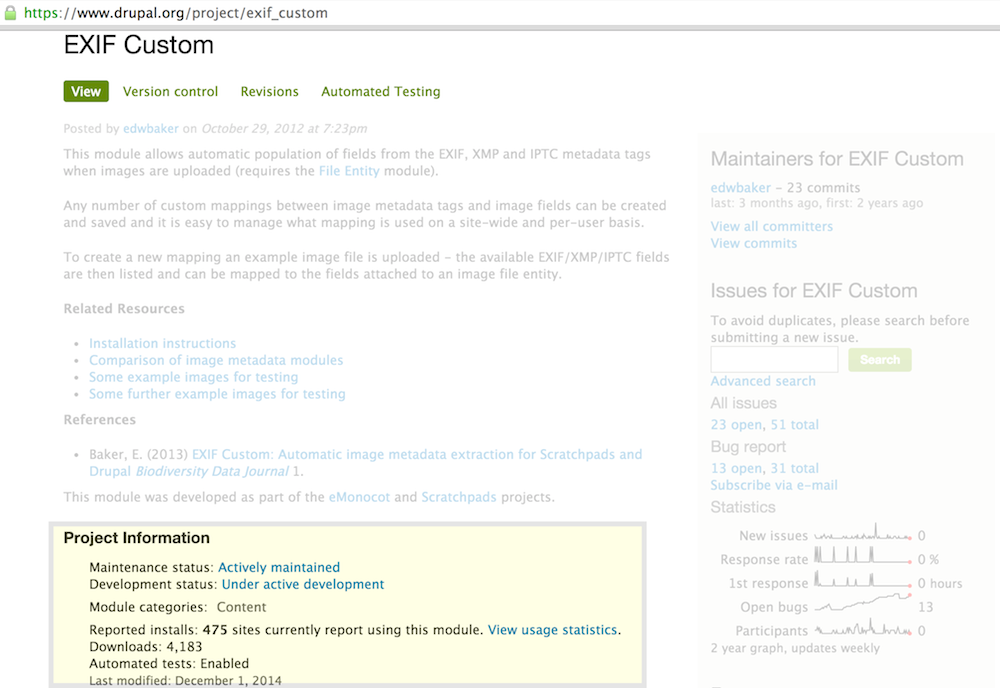
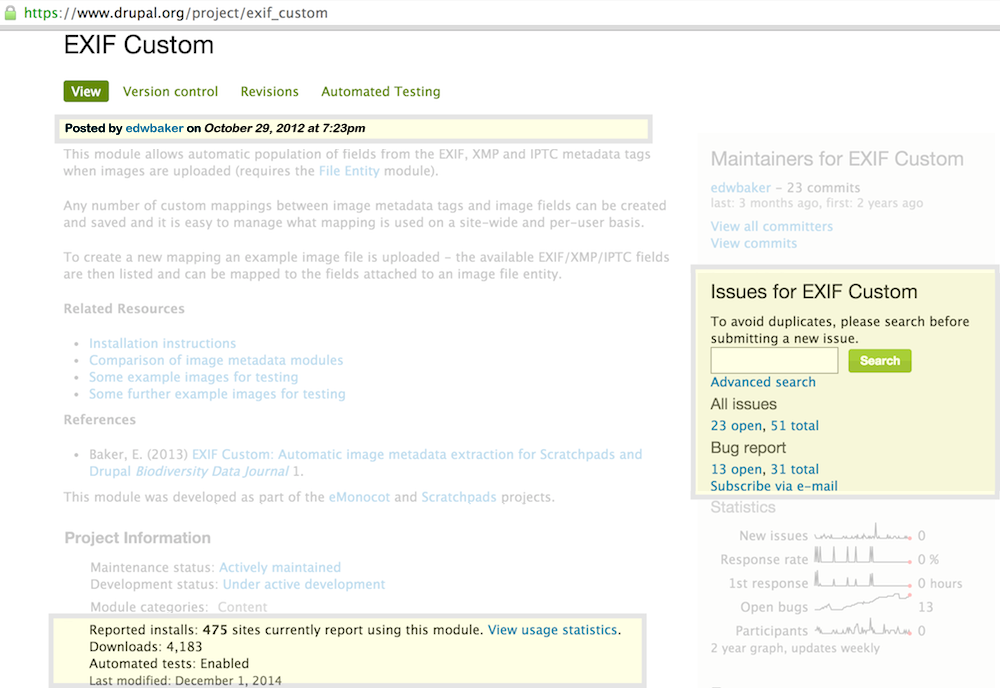
Update real world example

Changed region(s): [[0.682, 0.3663, 1.0, 0.7326], [0.031, 0.7326, 0.651, 0.9157], [0.031, 0.1526, 0.651, 0.2137]]

diff --git a/index.html b/index.html
@@ -196,35 +196,40 @@ AND these mappings need to be <strong style="color:yellow">exportable</strong> u
               </tr>
               <tr style="color:#06F">
                 <td style="background:#ccc;border:0;border-right:1px #333 solid;text-align:right;">drupalist</td>
-                <td style="background:#fff;border:0;">Does anyone know how to schedule workbench moderation changes?</td>
+                <td style="background:#fff;border:0;">Does anyone know how to capture exif data from jpeg images?</td>
               </tr>
               <tr style="color:#c30">
-                <td style="background:#ccc;border:0;border-right:1px #333 solid;text-align:right;">fenjB</td>
-                <td style="background:#fff;border:0">drupalist: are you looking to schedule publishing of a node?</td>
+                <td style="background:#ccc;border:0;border-right:1px #333 solid;text-align:right;">typhonius</td>
+                <td style="background:#fff;border:0">drupalist: Running it through Imagick would probably get you exif.</td>
+              </tr>
+
+              <tr style="color:#c30">
+                <td style="background:#ccc;border:0;border-right:1px #333 solid;text-align:right;">chargingHawk</td>
+                <td style="background:#fff;border:0">drupalist: What are you trying to do with the exif data?</td>
               </tr>
               <tr style="color:#06F">
                 <td style="background:#ccc;border:0;border-right:1px #333 solid;text-align:right;">drupalist</td>
-                <td style="background:#fff;border:0;">Um... maybe? I need to be able to select the date for a node to enter a moderation states</td>
+                <td style="background:#fff;border:0;">chargingHawk: When a user is uploading a jpeg I need to map the exif data to some custom fields. </td>
               </tr>
               <tr style="color:#c30">
-                <td style="background:#ccc;border:0;border-right:1px #333 solid;text-align:right;">runningHawk</td>
-                <td style="background:#fff;border:0">Sounds like you want to use the Scheduler module, since it can trigger events.</td>
+                <td style="background:#ccc;border:0;border-right:1px #333 solid;text-align:right;">chargingHawk</td>
+                <td style="background:#fff;border:0">drupalist: Are you using File Entities? or just an image upload field?</td>
               </tr>
-                <tr style="color:#999">
+              <tr style="color:#999">
                 <td style="background:#ccc;border:0;border-right:1px #333 solid;text-align:right;">&nbsp;</td>
                 <td style="background:#fff;border:0">peebz is now known as afk_peebz</td>
               </tr>
               <tr style="color:#c30">
-                <td style="background:#ccc;border:0;border-right:1px #333 solid;text-align:right;">fenjB</td>
-                <td style="background:#fff;border:0">drupalist: ^^ Scheduler Workbench Integration might do what you are looking for.</td>
+                <td style="background:#ccc;border:0;border-right:1px #333 solid;text-align:right;">chargingHawk</td>
+                <td style="background:#fff;border:0">Because Exif Custom might do what you are looking for</td>
               </tr>
               <tr style="color:#c30">
-                <td style="background:#ccc;border:0;border-right:1px #333 solid;text-align:right;">fenjB</td>
-                <td style="background:#fff;border:0">Scheduler Workbench Integration?</td>
+                <td style="background:#ccc;border:0;border-right:1px #333 solid;text-align:right;">chargingHawk</td>
+                <td style="background:#fff;border:0">Exif Custom?</td>
               </tr>
               <tr style="color:#c30">
                 <td style="background:#ccc;border:0;border-right:1px #333 solid;text-align:right;">Druplicon</td>
-                <td style="background:#fff;border:0">Scheduler Workbench Integration module Provides integration between the Scheduler module and the Workbench Moderation module. http://drupal.org/project/scheduler_workbench</td>
+                <td style="background:#fff;border:0">Exif Custom module allows automatic population of fields from the EXIF, XMP and IPTC metadata tags. <u>http://drupal.org/project/exif_custom</u></td>
               </tr>
               <tr style="color:#c30">
                 <td style="background:#ccc;border:0;border-right:1px #333 solid;text-align:right;">woogman</td>
@@ -232,7 +237,11 @@ AND these mappings need to be <strong style="color:yellow">exportable</strong> u
               </tr>
               <tr style="color:#06F">
                 <td style="background:#ccc;border:0;border-right:1px #333 solid;text-align:right;">drupalist</td>
-                <td style="background:#fff;border:0;">fenjB: I was just looking at that. I'll take a deeper dive, thanks!</td>
+                <td style="background:#fff;border:0;">chargingHawk: I am using File Entities. Exif Custom sounds like it does what I might need. Thanks!</td>
+              </tr>
+              <tr style="color:#06F">
+                <td style="background:#ccc;border:0;border-right:1px #333 solid;text-align:right;">drupalist</td>
+                <td style="background:#fff;border:0;">chargingHawk++</td>
               </tr>
               <tr>
                 <td colspan="2" style="background:#fff;border:0;border-top:1px #000 solid;color:#000"> |</td>
